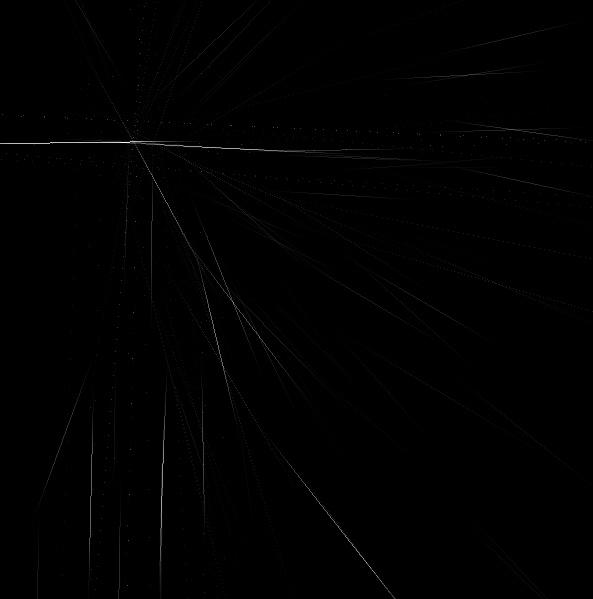
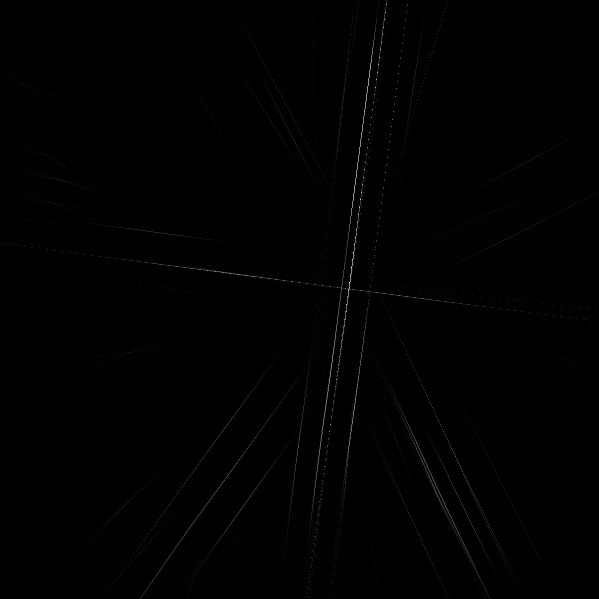
Improve the grid detection algorithm
After get the max bin id of the grid detection, by using edges in this
bin, compute more precise grid direction, and find all the edges that
follow the grid direction.

diff --git a/RoadFeatureExplorer/GeneratedFiles/ui_ControlWidget.h b/RoadFeatureExplorer/GeneratedFiles/ui_ControlWidget.h
@@ -1,7 +1,7 @@
 /********************************************************************************
 ** Form generated from reading UI file 'ControlWidget.ui'
 **
-** Created: Mon Jan 27 13:42:22 2014
+** Created: Mon Jan 27 14:59:23 2014
 **      by: Qt User Interface Compiler version 4.8.1
 **
 ** WARNING! All changes made in this file will be lost when recompiling UI file!
@@ -40,6 +40,8 @@ public:
     QLineEdit *lineEditGridVotingThreshold;
     QLabel *label_18;
     QLineEdit *lineEditGridMaxIteration;
+    QLabel *label_20;
+    QLineEdit *lineEditGridAngleThreshold;
     QGroupBox *groupBox_4;
     QPushButton *pushButtonDetectPlaza;
     QGroupBox *groupBox_6;
@@ -80,10 +82,10 @@ public:
         dockWidgetContents->setObjectName(QString::fromUtf8("dockWidgetContents"));
         groupBox_3 = new QGroupBox(dockWidgetContents);
         groupBox_3->setObjectName(QString::fromUtf8("groupBox_3"));
-        groupBox_3->setGeometry(QRect(10, 10, 201, 171));
+        groupBox_3->setGeometry(QRect(10, 10, 201, 191));
         pushButtonDetectGrid = new QPushButton(groupBox_3);
         pushButtonDetectGrid->setObjectName(QString::fromUtf8("pushButtonDetectGrid"));
-        pushButtonDetectGrid->setGeometry(QRect(40, 130, 121, 31));
+        pushButtonDetectGrid->setGeometry(QRect(40, 150, 121, 31));
         label_4 = new QLabel(groupBox_3);
         label_4->setObjectName(QString::fromUtf8("label_4"));
         label_4->setGeometry(QRect(10, 40, 46, 21));
@@ -107,10 +109,10 @@ public:
         lineEditMinMaxBinRatio->setAlignment(Qt::AlignRight|Qt::AlignTrailing|Qt::AlignVCenter);
         label_17 = new QLabel(groupBox_3);
         label_17->setObjectName(QString::fromUtf8("label_17"));
-        label_17->setGeometry(QRect(10, 100, 101, 21));
+        label_17->setGeometry(QRect(10, 120, 101, 21));
         lineEditGridVotingThreshold = new QLineEdit(groupBox_3);
         lineEditGridVotingThreshold->setObjectName(QString::fromUtf8("lineEditGridVotingThreshold"));
-        lineEditGridVotingThreshold->setGeometry(QRect(110, 100, 81, 20));
+        lineEditGridVotingThreshold->setGeometry(QRect(110, 120, 81, 20));
         lineEditGridVotingThreshold->setAlignment(Qt::AlignRight|Qt::AlignTrailing|Qt::AlignVCenter);
         label_18 = new QLabel(groupBox_3);
         label_18->setObjectName(QString::fromUtf8("label_18"));
@@ -119,15 +121,22 @@ public:
         lineEditGridMaxIteration->setObjectName(QString::fromUtf8("lineEditGridMaxIteration"));
         lineEditGridMaxIteration->setGeometry(QRect(110, 20, 81, 20));
         lineEditGridMaxIteration->setAlignment(Qt::AlignRight|Qt::AlignTrailing|Qt::AlignVCenter);
+        label_20 = new QLabel(groupBox_3);
+        label_20->setObjectName(QString::fromUtf8("label_20"));
+        label_20->setGeometry(QRect(10, 100, 101, 21));
+        lineEditGridAngleThreshold = new QLineEdit(groupBox_3);
+        lineEditGridAngleThreshold->setObjectName(QString::fromUtf8("lineEditGridAngleThreshold"));
+        lineEditGridAngleThreshold->setGeometry(QRect(110, 100, 81, 20));
+        lineEditGridAngleThreshold->setAlignment(Qt::AlignRight|Qt::AlignTrailing|Qt::AlignVCenter);
         groupBox_4 = new QGroupBox(dockWidgetContents);
         groupBox_4->setObjectName(QString::fromUtf8("groupBox_4"));
-        groupBox_4->setGeometry(QRect(10, 200, 201, 61));
+        groupBox_4->setGeometry(QRect(10, 220, 201, 61));
         pushButtonDetectPlaza = new QPushButton(groupBox_4);
         pushButtonDetectPlaza->setObjectName(QString::fromUtf8("pushButtonDetectPlaza"));
         pushButtonDetectPlaza->setGeometry(QRect(40, 20, 121, 31));
         groupBox_6 = new QGroupBox(dockWidgetContents);
         groupBox_6->setObjectName(QString::fromUtf8("groupBox_6"));
-        groupBox_6->setGeometry(QRect(10, 280, 201, 291));
+        groupBox_6->setGeometry(QRect(10, 310, 201, 291));
         pushButtonDetectRadial = new QPushButton(groupBox_6);
         pushButtonDetectRadial->setObjectName(QString::fromUtf8("pushButtonDetectRadial"));
         pushButtonDetectRadial->setGeometry(QRect(40, 250, 121, 31));
@@ -210,7 +219,7 @@ public:
         label_19->setGeometry(QRect(10, 20, 81, 21));
         groupBox_7 = new QGroupBox(dockWidgetContents);
         groupBox_7->setObjectName(QString::fromUtf8("groupBox_7"));
-        groupBox_7->setGeometry(QRect(10, 590, 201, 61));
+        groupBox_7->setGeometry(QRect(10, 620, 201, 61));
         pushButtonDetectGridRadial = new QPushButton(groupBox_7);
         pushButtonDetectGridRadial->setObjectName(QString::fromUtf8("pushButtonDetectGridRadial"));
         pushButtonDetectGridRadial->setGeometry(QRect(40, 20, 121, 31));
@@ -230,6 +239,7 @@ public:
         label_6->setText(QApplication::translate("ControlWidget", "Min Max Bin Ratio", 0, QApplication::UnicodeUTF8));
         label_17->setText(QApplication::translate("ControlWidget", "Vote Ratio Threshold", 0, QApplication::UnicodeUTF8));
         label_18->setText(QApplication::translate("ControlWidget", "Max Iteration", 0, QApplication::UnicodeUTF8));
+        label_20->setText(QApplication::translate("ControlWidget", "Angle Threshold", 0, QApplication::UnicodeUTF8));
         groupBox_4->setTitle(QApplication::translate("ControlWidget", "Plaza Detection", 0, QApplication::UnicodeUTF8));
         pushButtonDetectPlaza->setText(QApplication::translate("ControlWidget", "Detect Plaza", 0, QApplication::UnicodeUTF8));
         groupBox_6->setTitle(QApplication::translate("ControlWidget", "Radial Detection", 0, QApplication::UnicodeUTF8));

diff --git a/RoadFeatureExplorer/RoadSegmentationUtil.cpp b/RoadFeatureExplorer/RoadSegmentationUtil.cpp
@@ -55,9 +55,9 @@ struct faceVisitorForPlazaDetection : public boost::planar_face_traversal_visito
  * @param minMaxBinRatio		最大頻度となるビンの割合が、この値より小さい場合は、顕著な特徴ではないと考え、グリッド検知せずにfalseを返却する
  * @param votingRatioThreshold	各エッジについて、構成するラインが所定のグリッド方向に従っているかの投票率を計算し、この閾値未満なら、グリッドに従っていないと見なす
  */
-void RoadSegmentationUtil::detectGrid(RoadGraph& roads, AbstractArea& area, int maxIteration, float numBins, float minTotalLength, float minMaxBinRatio, float votingRatioThreshold) {
+void RoadSegmentationUtil::detectGrid(RoadGraph& roads, AbstractArea& area, int maxIteration, float numBins, float minTotalLength, float minMaxBinRatio, float angleThreshold, float votingRatioThreshold) {
 	for (int i = 0; i < maxIteration; i++) {
-		if (!detectOneGrid(roads, area, i, numBins, minTotalLength, minMaxBinRatio, votingRatioThreshold)) break;
+		if (!detectOneGrid(roads, area, i, numBins, minTotalLength, minMaxBinRatio, angleThreshold, votingRatioThreshold)) break;
 	}
 }
 
@@ -69,7 +69,7 @@ void RoadSegmentationUtil::detectGrid(RoadGraph& roads, AbstractArea& area, int 
  * @param minTotalLength		最大頻度となるビンに入ったエッジの総延長距離が、この値より小さい場合、顕著な特徴ではないと考え、グリッド検知せずにfalseを返却する
  * @param minMaxBinRatio		最大頻度となるビンの割合が、この値より小さい場合は、顕著な特徴ではないと考え、グリッド検知せずにfalseを返却する
  */
-bool RoadSegmentationUtil::detectOneGrid(RoadGraph& roads, AbstractArea& area, int group_id, int numBins, float minTotalLength, float minMaxBinRatio, float votingRatioThreshold) {
+bool RoadSegmentationUtil::detectOneGrid(RoadGraph& roads, AbstractArea& area, int group_id, int numBins, float minTotalLength, float minMaxBinRatio, float angleThreshold, float votingRatioThreshold) {
 	// ヒストグラムの初期化
 	cv::Mat dirMat = cv::Mat::zeros(numBins, 1, CV_32F);
 
@@ -116,8 +116,9 @@ bool RoadSegmentationUtil::detectOneGrid(RoadGraph& roads, AbstractArea& area, i
 	// 最頻値（モード）のビンの割合がminMaxBinRatio%未満なら、グリッドとは見なさない
 	if (max_hist_value < minTotalLength || max_hist_value < (float)count * minMaxBinRatio) return false;
 
-	// 最頻値（モード）のビンに入るエッジを、グループに登録する
-	QVector2D dir1, dir2;
+	// 最頻値（モード）のビンに入るエッジを使って、高精度のグリッド方向を計算する
+	QVector2D gridDir;
+	count = 0;
 	for (boost::tie(ei, eend) = boost::edges(roads.graph); ei != eend; ++ei) {
 		if (!roads.graph[*ei]->valid) continue;
 		
@@ -134,15 +135,66 @@ bool RoadSegmentationUtil::detectOneGrid(RoadGraph& roads, AbstractArea& area, i
 		for (int i = 0; i < roads.graph[*ei]->polyLine.size() - 1; i++) {
 			QVector2D dir = roads.graph[*ei]->polyLine[i + 1] - roads.graph[*ei]->polyLine[i];
 			float theta = atan2f(dir.y(), dir.x());
-			if (theta < 0) theta += M_PI;
-			if (theta > M_PI * 0.5f) theta -= M_PI * 0.5f;
+			if (theta < 0) {
+				theta += M_PI;
+				dir = -dir;
+			}
+
+			if (theta > M_PI * 0.5f) {
+				theta -= M_PI * 0.5f;
+				float tmpX = dir.x();
+				float tmpY = dir.y();
+				dir.setX(tmpY);
+				dir.setY(-tmpX);
+			}
 
 			// どのビンか決定
 			int bin_id = theta * (float)numBins / M_PI * 2.0f;
-			if (bin_id >= numBins) bin_id = numBins - 1;
+			if (bin_id >= numBins) continue;
 
-			// 同じビンに入るなら、カウントをインクリメント
-			if (bin_id == max_bin_id) length += dir.length();
+			if (bin_id != max_bin_id) continue;
+
+			// 同じビンに入るエッジを使って、高精度のグリッド方向を計算する
+			gridDir += dir.normalized();
+			count++;
+		}
+	}
+	gridDir /= (float)count;
+
+	// 最頻値（モード）のビンに入るエッジを、グループに登録する
+	QVector2D dir1, dir2;
+	for (boost::tie(ei, eend) = boost::edges(roads.graph); ei != eend; ++ei) {
+		if (!roads.graph[*ei]->valid) continue;
+		
+		// 既にshapeTypeが確定しているエッジは、スキップする
+		if (roads.graph[*ei]->shapeType > 0) continue;
+
+		// エリアの外のエッジは、スキップする
+		RoadVertexDesc src = boost::source(*ei, roads.graph);
+		if (!area.contains(roads.graph[src]->pt)) continue;
+		RoadVertexDesc tgt = boost::target(*ei, roads.graph);
+		if (!area.contains(roads.graph[tgt]->pt)) continue;
+
+		float length = 0.0f;
+		for (int i = 0; i < roads.graph[*ei]->polyLine.size() - 1; i++) {
+			QVector2D dir = roads.graph[*ei]->polyLine[i + 1] - roads.graph[*ei]->polyLine[i];
+			float theta = atan2f(dir.y(), dir.x());
+			if (theta < 0) {
+				theta += M_PI;
+				dir = -dir;
+			}
+
+			if (theta > M_PI * 0.5f) {
+				theta -= M_PI * 0.5f;
+				float tmpX = dir.x();
+				float tmpY = dir.y();
+				dir.setX(tmpY);
+				dir.setY(-tmpX);
+			}
+
+			if (GraphUtil::diffAngle(dir, gridDir) < angleThreshold) {
+				length += dir.length();
+			}
 		}
 
 		// votingRatioThreshold%以上、グリッドの方向と同じ方向のエッジなら、そのエッジを当該グループに入れる

diff --git a/RoadFeatureExplorer/ControlWidget.cpp b/RoadFeatureExplorer/ControlWidget.cpp
@@ -13,6 +13,7 @@ ControlWidget::ControlWidget(MainWindow* mainWin) : QDockWidget("Control Widget"
 	ui.lineEditNumBins->setText("9");
 	ui.lineEditMinTotalLength->setText("1000");
 	ui.lineEditMinMaxBinRatio->setText("0.5");
+	ui.lineEditGridAngleThreshold->setText("0.1");
 	ui.lineEditGridVotingThreshold->setText("0.7");
 
 	ui.lineEditRadialMaxIteration->setText("2");
@@ -47,10 +48,11 @@ void ControlWidget::detectGrid() {
 	int numBins = ui.lineEditNumBins->text().toInt();
 	float minTotalLength = ui.lineEditMinTotalLength->text().toFloat();
 	float minMaxBinRatio = ui.lineEditMinMaxBinRatio->text().toFloat();
+	float angleThreshold = ui.lineEditGridAngleThreshold->text().toFloat();
 	float votingThreshold = ui.lineEditGridVotingThreshold->text().toFloat();
 
 	GraphUtil::copyRoads(mainWin->glWidget->origRoads, mainWin->glWidget->roads);
-	RoadSegmentationUtil::detectGrid(mainWin->glWidget->roads, mainWin->glWidget->selectedArea, maxIteration, numBins, minTotalLength, minMaxBinRatio, votingThreshold);
+	RoadSegmentationUtil::detectGrid(mainWin->glWidget->roads, mainWin->glWidget->selectedArea, maxIteration, numBins, minTotalLength, minMaxBinRatio, angleThreshold, votingThreshold);
 
 	mainWin->glWidget->updateGL();
 }
@@ -92,6 +94,7 @@ void ControlWidget::detectGridRadial() {
 	int numBins = ui.lineEditNumBins->text().toInt();
 	float minTotalLength = ui.lineEditMinTotalLength->text().toFloat();
 	float minMaxBinRatio = ui.lineEditMinMaxBinRatio->text().toFloat();
+	float gridAngleThreshold = ui.lineEditGridAngleThreshold->text().toFloat();
 	float gridVotingThreshold = ui.lineEditGridVotingThreshold->text().toFloat();
 
 	int radialMaxIteration = ui.lineEditRadialMaxIteration->text().toInt();
@@ -109,7 +112,7 @@ void ControlWidget::detectGridRadial() {
 
 	GraphUtil::copyRoads(mainWin->glWidget->origRoads, mainWin->glWidget->roads);
 	RoadSegmentationUtil::detectRadial(mainWin->glWidget->roads, mainWin->glWidget->selectedArea, radialMaxIteration, scale1, scale2, centerErrorTol2, angleThreshold2, scale3, centerErrorTol3, angleThreshold3, radialVotingThreshold, seedDistance, extendingAngleThreshold);
-	RoadSegmentationUtil::detectGrid(mainWin->glWidget->roads, mainWin->glWidget->selectedArea, gridMaxIteration, numBins, minTotalLength, minMaxBinRatio, gridVotingThreshold);
+	RoadSegmentationUtil::detectGrid(mainWin->glWidget->roads, mainWin->glWidget->selectedArea, gridMaxIteration, numBins, minTotalLength, minMaxBinRatio, gridAngleThreshold, gridVotingThreshold);
 
 	mainWin->glWidget->updateGL();
 }

diff --git a/RoadFeatureExplorer/RoadSegmentationUtil.h b/RoadFeatureExplorer/RoadSegmentationUtil.h
@@ -11,8 +11,8 @@ protected:
 	~RoadSegmentationUtil() {}
 
 public:
-	static void detectGrid(RoadGraph& roads, AbstractArea& area, int maxIteration, float numBins, float minTotalLength, float minMaxBinRatio, float votingRatioThreshold);
-	static bool detectOneGrid(RoadGraph& roads, AbstractArea& area, int group_id, int numBins, float minTotalLength, float minMaxBinRatio, float votingRatioThreshold);
+	static void detectGrid(RoadGraph& roads, AbstractArea& area, int maxIteration, float numBins, float minTotalLength, float minMaxBinRatio, float angleThreshold, float votingRatioThreshold);
+	static bool detectOneGrid(RoadGraph& roads, AbstractArea& area, int group_id, int numBins, float minTotalLength, float minMaxBinRatio, float angleThreshold, float votingRatioThreshold);
 	static int traverseConnectedEdges(RoadGraph& roads, RoadEdgeDesc e, QMap<RoadEdgeDesc, int>& edges, int segment_id);
 	static void reduceGroup(RoadGraph& roads, int group_id);
 
